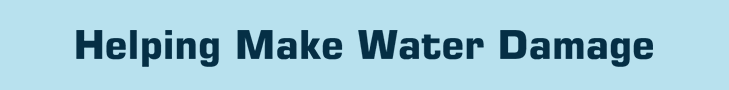
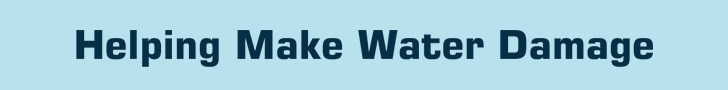
changed servpro- water-damage 728x90 image size 1px too large 729x90 -> 728x90, versioned, uploaded, created new ad on platform

diff --git a/source/servpro-q4-moments/servpro-q4-moments.html b/source/servpro-q4-moments/servpro-q4-moments.html
@@ -422,8 +422,8 @@
                 </li>
 
                 <li>
-                    <a href="http://platform.mediamind.com/Eyeblaster.Preview.Web/Default.aspx?previewID=o350GmdWZX0nSwkbOCC9ruYMDcVy9nc4GU0DOVAi7PBgT6BEdaiF1A%3D%3D&AdID=48511102&lang=en-US" target="_blank">
-                        48511102
+                    <a href="http://platform.mediamind.com/Eyeblaster.Preview.Web/Default.aspx?previewID=f0%2Fdg5HkZevcizfBWfsuWnAdv%2FVfNzdCCc2sLeosACOWIePijClMnA%3D%3D&AdID=48722814&lang=en-US" target="_blank">
+                        48722814
                     </a>
                 </li>
 
